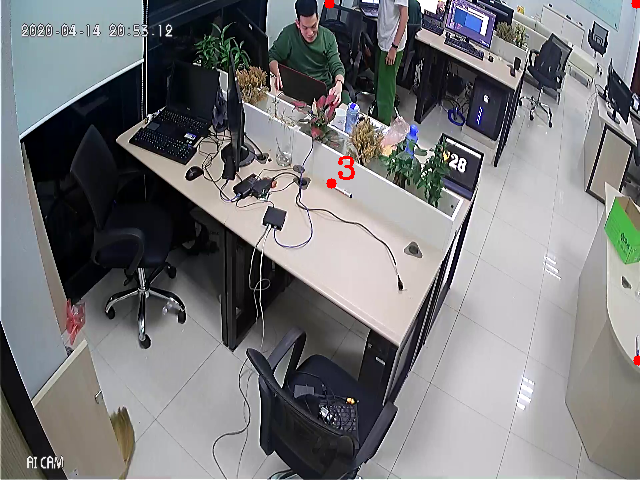
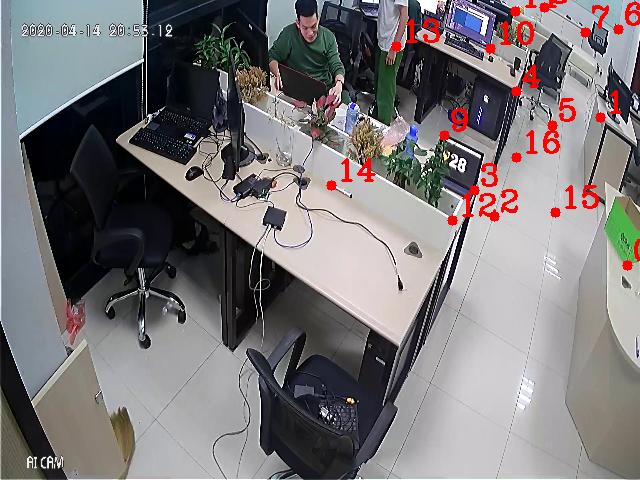
change some file

diff --git a/test4_noqueue.py b/test4_noqueue.py
@@ -1,161 +1,110 @@
-import collections
-from threading import Thread
 import cv2
-import time
 import numpy as np
-import itertools
 
-class VideoScreenshot(object):
-	def __init__(self, src=0, src2=0):
-		# Create a VideoCapture object
-		self.capture = cv2.VideoCapture(src)
-		self.capture2 = cv2.VideoCapture(src2)
+# width, height = 640, 480
+#
+# if __name__ == '__main__':
+#     out1 = cv2.VideoWriter('output1.avi',
+#                           cv2.VideoWriter_fourcc('M', 'J', 'P', 'G'), 10,
+#                           (width, height))
+#     out2 = cv2.VideoWriter('output2.avi',
+#                            cv2.VideoWriter_fourcc('M', 'J', 'P', 'G'), 10,
+#                            (width, height))
+#     capture = cv2.VideoCapture('output_concat.avi')
+#     while True:
+#         ret, frame = capture.read()
+#         if ret:
+#             out1.write(frame[:,0:640,:])
+#             out2.write(frame[:, 640:, :])
+#             # out2.write(right)
+#         else:
+#             out1.release()
+#             out2.release()
+#             capture.release()
+#             break
 
-		# Take screenshot every x seconds
-		self.screenshot_interval = 1
+import cv2
+import numpy as np
 
-		# Default resolutions of the frame are obtained (system dependent)
-		self.frame_width = int(self.capture.get(3))
-		self.frame_height = int(self.capture.get(4))
-		print(self.frame_width, self.frame_height)
 
-		self.H = np.load("H_matrix.npy", allow_pickle=True)
-		self.mask_left = self.create_mask('left_image')
-		self.mask_right = self.create_mask('right_image')
+def create_mask(version):
+    height_panorama = frame_height
+    mask = np.zeros((height_panorama, smoothing_window_size))
+    if version == 'left_image':
+        mask[:, :] = np.tile(
+                np.linspace(1, 0, smoothing_window_size).T,
+                (height_panorama, 1))
+    else:
+        mask[:, :] = np.tile(
+                np.linspace(0, 1, smoothing_window_size).T,
+                (height_panorama, 1))
+    return cv2.merge([mask, mask, mask])
 
-		# Start the thread to read frames from the video stream
-		self.thread = Thread(target=self.update)
-		self.thread.daemon = True
-		self.thread.start()
 
-		self.thread2 = Thread(target=self.update2)
-		self.thread2.daemon = True
-		self.thread2.start()
+frame_height = 480
+frame_width = 640
+smoothing_window_size = 60
+mask_left = create_mask('left_image')
+mask_right = create_mask('right_image')
 
-		self.status = False
-		self.status2 = False
-		self.frame = None
-		self.frame2 = None
-		# self.result = None
-		self.fps = 0
 
-	def update(self):
-		# Read the next frame from the stream in a different thread
-		while True:
-			if self.capture.isOpened():
-				(self.status, self.frame) = self.capture.read()
+def blending(image_left, image_right, H):
+    height_img1 = frame_height
+    width_img1 = frame_width
+    width_img2 = frame_width
+    height_panorama = height_img1
+    width_panorama = width_img1 + width_img2
 
-	def update2(self):
-		# Read the next frame from the stream in a different thread
-		while True:
-			if self.capture2.isOpened():
-				(self.status2, self.frame2) = self.capture2.read()
+    result = np.zeros((height_panorama, width_panorama, 3))
 
-	def show_frame(self):
-		# ID = 0
-		# Display frames in main program
-		while True:
-			if self.status and self.status2:
-				start = time.time()
-				final = self.blending()
-				end = time.time()
-				self.fps = self.fps * 0.9 + 1 / (end - start) * 0.1
-				fps = "{:.2f}".format(self.fps)
-				final = cv2.putText(final, fps, (50, 50),
-				                    cv2.FONT_HERSHEY_SIMPLEX,
-				                    1, (255, 0, 0), 2, cv2.LINE_AA)
-				cv2.imshow('result', final)
-				# cv2.imwrite('temp/' + str(ID) + '.jpg', final)
-				# ID = ID + 1
-				# cv2.imwrite('temp/paranoma.jpg', final)
-				# cv2.imshow("frame1", self.frame)
-				# cv2.imshow("frame2", self.frame2)
+    result[:, 0:frame_width - smoothing_window_size, :] \
+        = image_left[:, 0:frame_width - smoothing_window_size, :]
+    merger_left = image_left[:,
+                  frame_width - smoothing_window_size:frame_width,
+                  :] * mask_left
 
-			# Press Q on keyboard to stop recording
-			key = cv2.waitKey(1)
-			if key == ord('q'):
-				self.capture.release()
-				self.capture2.release()
-				cv2.destroyAllWindows()
-				exit(1)
+    panorama2 = cv2.warpPerspective(image_right, H,
+                                    (width_panorama, height_panorama))
+    result[:, frame_width:, :] = panorama2[:, frame_width:, :]
+    merger_right = panorama2[:,
+                   frame_width - smoothing_window_size:frame_width,
+                   :] * mask_right
 
-	def create_mask(self, version):
-		smoothing_window_size = 400
-		height_img1 = self.frame_height
-		width_img1 = self.frame_width
-		width_img2 = self.frame_width
-		height_panorama = height_img1
-		width_panorama = width_img1 + width_img2
-		offset = int(smoothing_window_size / 2)
-		barrier = self.frame_width - int(smoothing_window_size / 2)
-		mask = np.zeros((height_panorama, width_panorama))
-		if version == 'left_image':
-			mask[:, barrier - offset:barrier + offset] = np.tile(
-					np.linspace(1, 0, 2 * offset).T, (height_panorama, 1))
-			# print('first : ', mask)
-			mask[:, :barrier - offset] = 1
-		# print('second ', mask)
-		else:
-			mask[:, barrier - offset:barrier + offset] = np.tile(
-					np.linspace(0, 1, 2 * offset).T, (height_panorama, 1))
-			mask[:, barrier + offset:] = 1
-		return cv2.merge([mask, mask, mask])
+    result[:, frame_width - smoothing_window_size:frame_width,
+    :] = merger_left + merger_right
 
-	def blending(self):
-		height_img1 = self.frame_height
-		width_img1 = self.frame_width
-		width_img2 = self.frame_width
-		height_panorama = height_img1
-		width_panorama = width_img1 + width_img2
+    min_row, max_row = 0, 480
+    min_col, max_col = 0, 950
 
-		panorama1 = np.zeros((height_panorama, width_panorama, 3))
-		mask1 = self.mask_left
-		panorama1[0:self.frame_height, 0:self.frame_width, :] = self.frame
-		panorama1 *= mask1
-		mask2 = self.mask_right
-		panorama2 = cv2.warpPerspective(self.frame2, self.H,
-		                                (width_panorama, height_panorama)) *mask2
-		# print(type(panorama2))
-		result = panorama1 + panorama2
+    final_result = result[min_row:max_row, min_col:max_col, :]
+    # final_result = trim(result)
+    # final_result = result
+    final_result = final_result.astype(np.uint8)
+    return final_result
 
-		#using np.where
-		# rows, cols = np.where(result[:, :, 0] != 0)
-		# min_row, max_row = min(rows), max(rows) + 1
-		# min_col, max_col = min(cols), max(cols) + 1
 
-		min_row, max_row = 0, 960
-		min_col, max_col = 0, 2200
+def main(argv1, argv2):
+    cap1 = cv2.VideoCapture(argv1)
+    cap2 = cv2.VideoCapture(argv2)
+    H = np.load("H_matrix.npy")
+    out = cv2.VideoWriter('output_blend_950x480.avi',
+                          cv2.VideoWriter_fourcc('M', 'J', 'P', 'G'), 10,
+                          (950, 480))
+    while True:
+        ret1, image_left = cap1.read()
+        ret2, image_right = cap2.read()
+        if ret1 and ret2:
+            final = blending(image_left, image_right, H)
+            cv2.imshow('panorama', final)
+            out.write(final)
+            cv2.waitKey(1)
+        else:
+            cap1.release()
+            cap2.release()
+            cv2.destroyAllWindows()
+            out.release()
+            break
 
-		final_result = result[min_row:max_row, min_col:max_col, :]
-		# final_result = trim(result)
-		# final_result = result
-		final_result = final_result.astype(np.uint8)
-		return final_result
-
-def trim(frame):
-	# crop top
-	if not np.sum(frame[0]):
-		return trim(frame[1:])
-	# crop bottom
-	elif not np.sum(frame[-1]):
-		return trim(frame[:-2])
-	# crop left
-	elif not np.sum(frame[:, 0]):
-		return trim(frame[:, 1:])
-	# crop right
-	elif not np.sum(frame[:, -1]):
-		return trim(frame[:, :-2])
-	return frame
 
 if __name__ == '__main__':
-	rtsp_stream_link = 'your stream link!'
-
-	video_stream_widget = VideoScreenshot(
-			"rtsp://khanh29bk:Admin123@192.168.0.11/Src/MediaInput/h264/stream_1/ch_",
-			"rtsp://khanh29bk:Admin123@192.168.0.12/Src/MediaInput/h264/stream_1/ch_")
-	# video_stream_widget.thread.join()
-	# video_stream_widget.thread2.join()
-	# while True:
-	# try:
-	video_stream_widget.show_frame()
-# video_stream_widget.stitch_image()
+    main('output_left.avi', 'output_right.avi')

diff --git a/4_image_Stitching_image_new.py b/4_image_Stitching_image_new.py
@@ -104,9 +104,7 @@ def check_overlap(human_locations, poly_left, poly_right, matrix_tranform):
         else:
             human_in_left.append(human_location)
     for human_location in human_in_right:
-        human_location_shift = human_location
-        human_location_shift[0] = human_location[0]-width
-        if not point_inside_polygon(human_location_shift, poly_right):
+        if not point_inside_polygon(human_location, poly_right):
             identity[ID] = [human_location]
             ID = ID + 1
         else:
@@ -125,47 +123,64 @@ def check_overlap(human_locations, poly_left, poly_right, matrix_tranform):
         human_reference_location = reference_point(human_location,
                                                    matrix_tranform)
         for human_location_dst in human_overlap_left:
-            if is_near(human_location_dst,human_reference_location,15):
+            if is_near(human_location_dst, human_reference_location, 15):
                 same_human.append(human_location_dst)
                 human_overlap_left.remove(human_location_dst)
         identity[ID] = same_human
-        ID = ID +1
-    while len(human_overlap_left)>0:
+        ID = ID + 1
+    while len(human_overlap_left) > 0:
         identity[ID] = [human_overlap_left.pop()]
-        ID = ID +1
+        ID = ID + 1
     return identity
+
+
 def main(argv1, argv2):
     img1 = cv2.imread(argv1)
     img2 = cv2.imread(argv2)
     H = np.load("H_matrix.npy")
 
-    src_point = (300, 410)
+    src_point = (21, 349)
     src_point_np = np.concatenate([np.array(src_point), np.array([1])])
     src_point_np = np.array([src_point_np]).T
     color = (0, 0, 255)
 
     # draw point in right hand side
-    cv2.circle(img2, src_point, 5, color, -1)
+    # cv2.circle(img2, src_point, 5, color, -1)
     img2 = drawROI(img2, image2_kp)
     # cv2.imshow("right", img2)
 
-    dst_point_np = np.matmul(H, src_point_np)
     # dst_point_np = cv2.perspectiveTransform(np.array([np.array([np.array(src_point)])]).astype(
     #     np.float32), H)
     # dst_point_np = cv2.warpPerspective(
     #         np.array([np.array([np.array(src_point)])]).astype(
     #                     np.float32), H, (1000,1000))
-    print(dst_point_np)
+    # x_src, y_src = src_point[0], src_point[1]
+    # x_des = (H[0][0] * x_src + H[0][1] * y_src +
+    #          H[0][2]) / (
+    #                 H[2][0] * x_src + H[2][
+    #             1] * y_src + H[2][2])
+    # y_des = (H[1][0] * x_src + H[1][1] * y_src +
+    #          H[1][2]) / (
+    #                 H[2][0] * x_src + H[2][
+    #             1] * y_src + H[2][2])
+    #
+    # dst_point_np = [[x_des], [y_des]]
+    # dst_point_np = reference_point(src_point, H)
+
+    dst_point_np = np.matmul(H, src_point_np)
     dst_point_np[0][0] = dst_point_np[0][0] / dst_point_np[2][0]
     dst_point_np[1][0] = dst_point_np[1][0] / dst_point_np[2][0]
-    print(dst_point_np.shape)
+
+
+    print(dst_point_np)
+    # print(dst_point_np.shape)
     # cv2.imshow('dst', dst_point_np)
     # cv2.waitKey(0)
     dst_point = (int(dst_point_np[0][0]), int(dst_point_np[1][0]))
     # print(dst_point)
 
     # draw point in left hand side
-    cv2.circle(img1, dst_point, 5, color, -1)
+    # cv2.circle(img1, dst_point, 5, color, -1)
     img1 = drawROI(img1, image1_kp)
     # cv2.imshow("left", img1)
 
@@ -173,7 +188,7 @@ def main(argv1, argv2):
     result[:, 0:width, :] = img1
     result[:, width:, :] = img2
     # result = drawROI(result, image2_kp_shift)
-    cv2.imshow('concat', result)
+    # cv2.imshow('concat', result)
     # final=blending(img1, img2, H)
     # cv2.imwrite("panorama.png", final)
     # cv2.imshow('panorama', final)
@@ -181,9 +196,9 @@ def main(argv1, argv2):
 
 
 if __name__ == '__main__':
-    # main("image_left.png", "image_right.png")
-    matrix_tranform = np.load('H_matrix.npy')
+    main("image_left.png", "image_right.png")
+    # matrix_tranform = np.load('H_matrix.npy')
     # do detect
-    human_locations = []
+    # human_locations = []
     # do identity
-    result = check_overlap(human_locations,image1_kp, image2_kp, matrix_tranform)
+    # result = check_overlap(human_locations,image1_kp, image2_kp, matrix_tranform)

diff --git a/test_FPS.py b/test_FPS.py
@@ -41,8 +41,9 @@ def blending(img1,img2, H):
     rows, cols = np.where(result[:, :, 0] != 0)
     min_row, max_row = min(rows), max(rows) + 1
     min_col, max_col = min(cols), max(cols) + 1
-    # final_result = result[min_row:max_row, min_col:max_col, :]
-    final_result = result[:,:]
+    final_result = result[min_row:max_row, min_col:max_col, :]
+    # print(max_row, max_col)
+    # final_result = result[:,:]
     final_result = final_result.astype(np.uint8)
     return final_result
 
@@ -57,7 +58,7 @@ def main(argv1,argv2):
 
     final=blending(img1, img2, H)
     # final= cv2.resize(final,(int(final.shape[1]), int(final.shape[0])))
-    cv2.imwrite("panorama.jpg", final)
+    cv2.imwrite("panorama.png", final)
     cv2.imshow('panorama', final)
     cv2.waitKey(0)
     cv2.destroyAllWindows()

diff --git a/test4_optimal2.py b/test4_optimal2.py
@@ -125,7 +125,7 @@ class VideoScreenshot(object):
 		result[:,self.frame_width - self.smoothing_window_size:self.frame_width,:] = merger_left + merger_right
 
 		min_row, max_row = 0, 480
-		min_col, max_col = 0, 900
+		min_col, max_col = 0, 947
 
 		final_result = result[min_row:max_row, min_col:max_col, :]
 		# final_result = trim(result)
